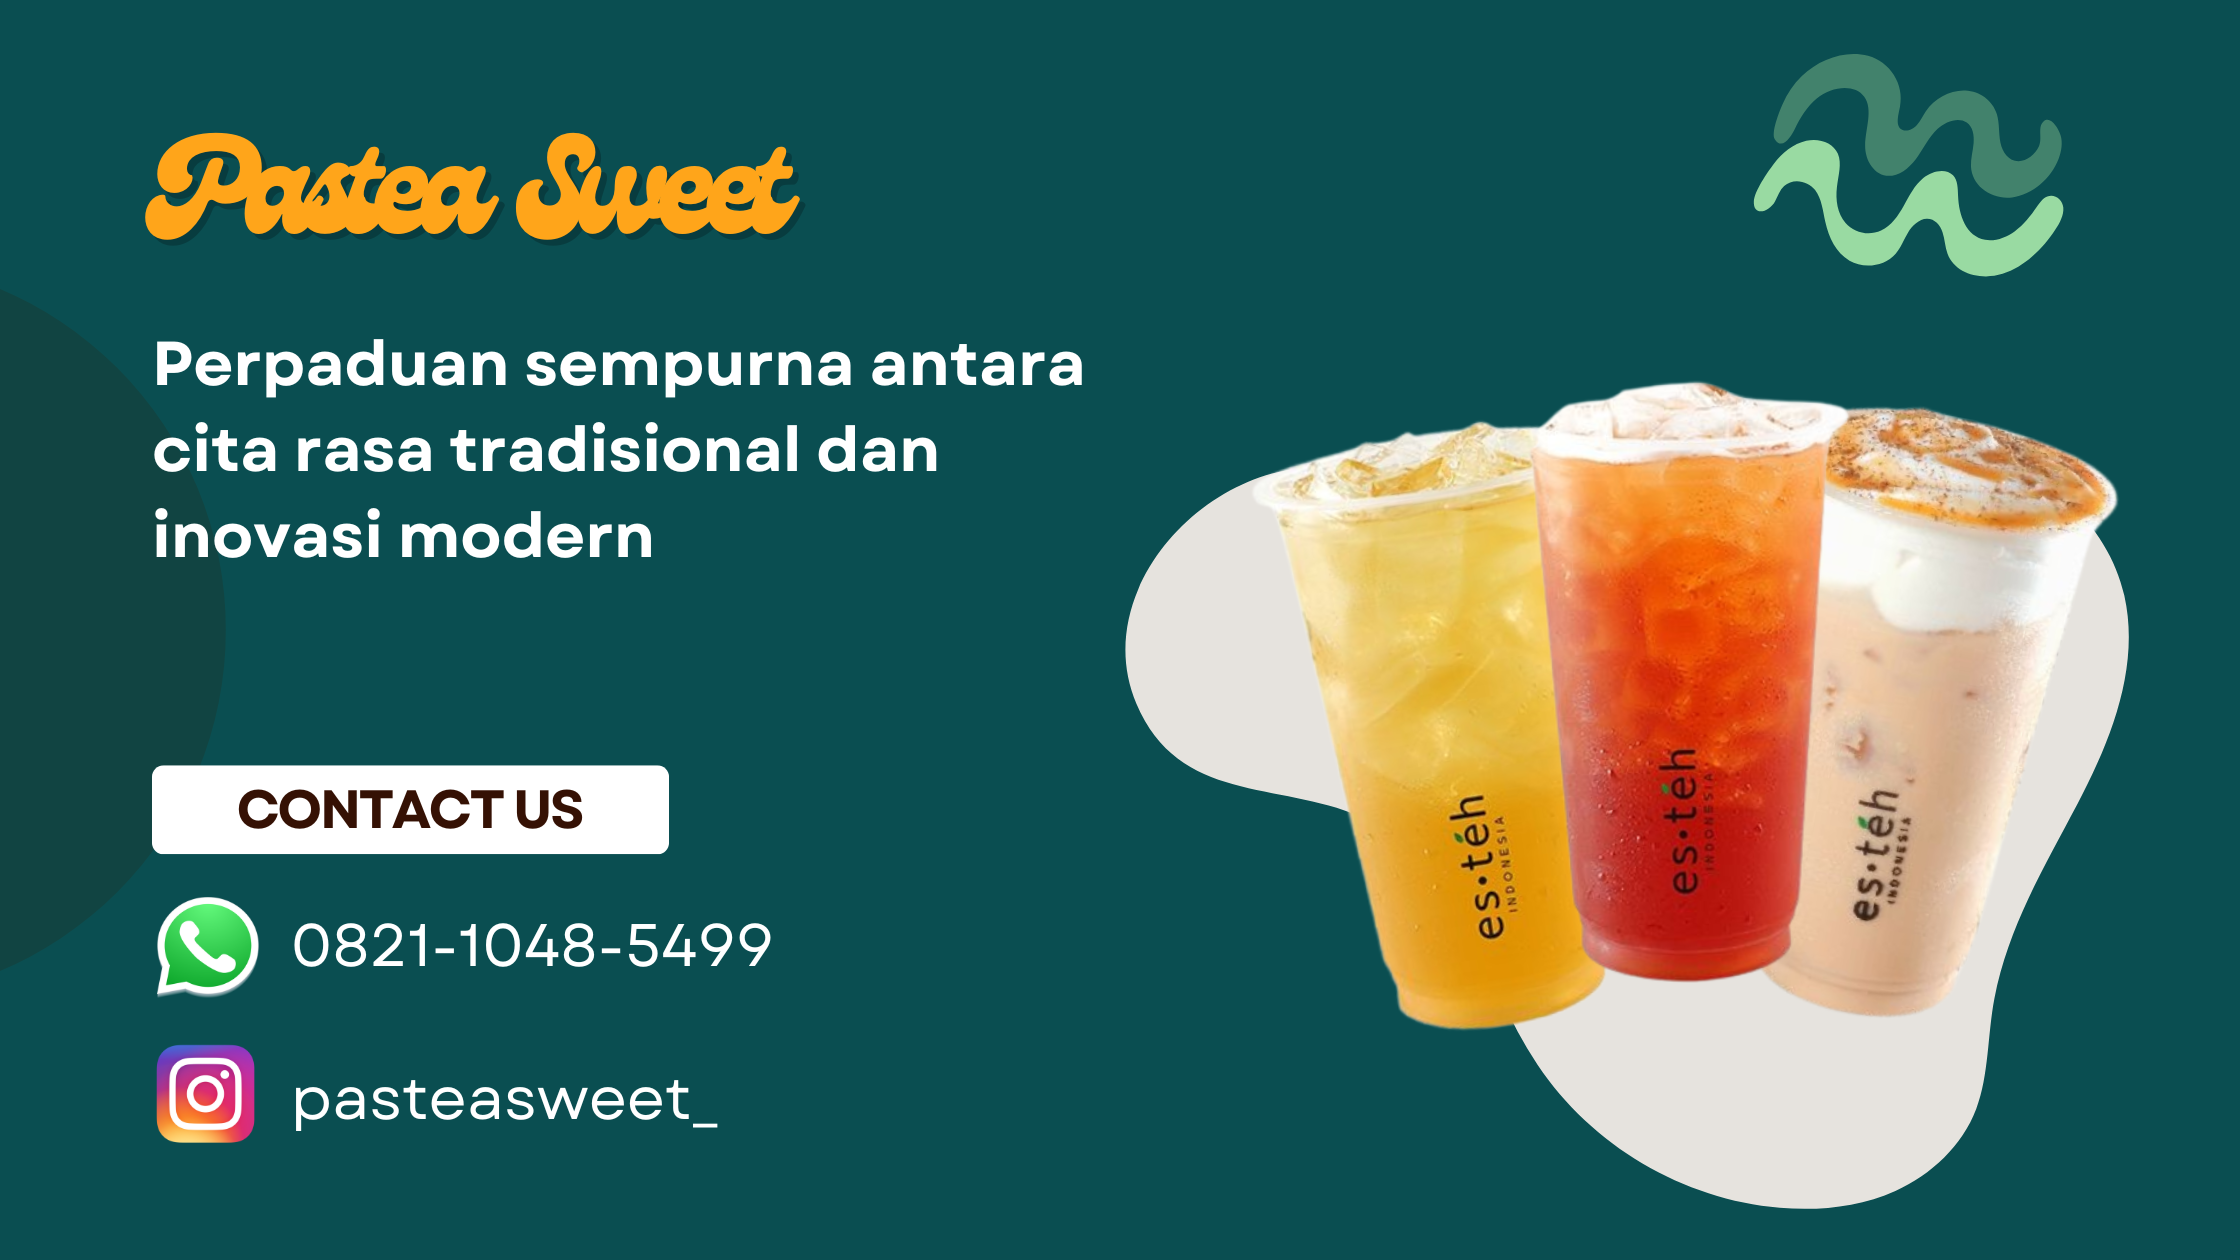
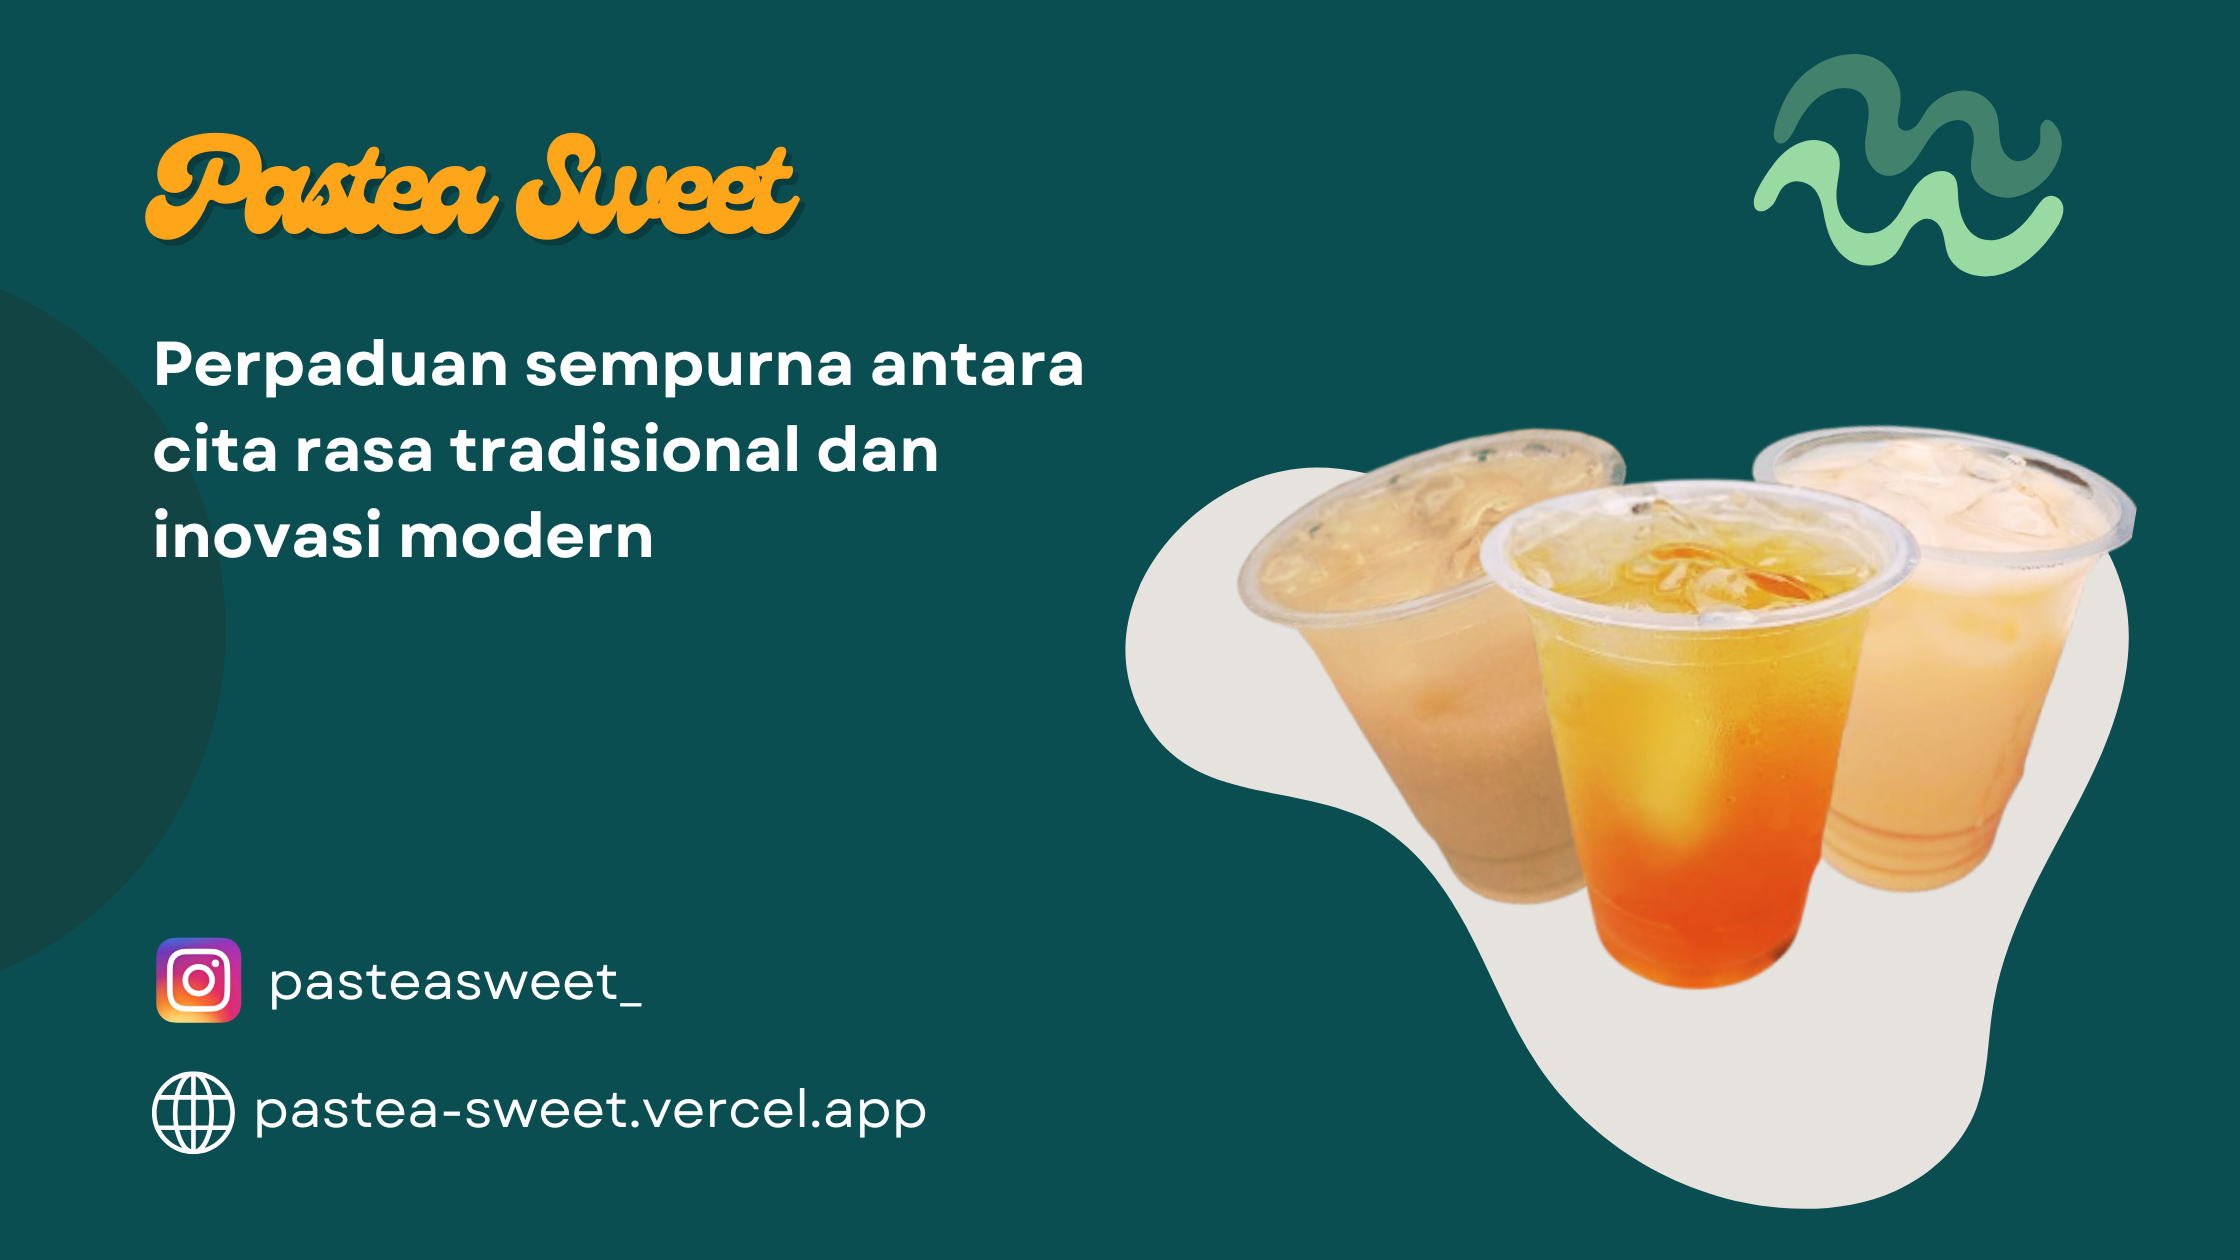
update

Changed region(s): [[0.5312, 0.2786, 0.9688, 0.8357], [0.0625, 0.7119, 0.4062, 0.9286], [0.0625, 0.5881, 0.3125, 0.681]]

diff --git a/index.html b/index.html
@@ -5,9 +5,13 @@
   <meta charset="UTF-8">
   <meta name="viewport" content="width=device-width, initial-scale=1.0">
   <title>Pastea Sweet</title>
+
   <script src="https://cdn.tailwindcss.com"></script>
   <style type="text/tailwindcss">
     @layer utilities {
+      html {
+        scroll-behavior: smooth; 
+      }
       .content-auto {
         content-visibility: auto;
       }
@@ -31,7 +35,7 @@
 </body>
 
 <!-- NAVBAR -->
-<nav class="bg-[#EEDCC4] w-full">
+<nav class="bg-[#EEDCC4] w-full sticky top-0 shadow z-10">
   <div class="container flex items-center justify-between p-4 mx-auto px-4 md:px-4 lg:px-[8rem]">
     <div class="nav-brand text-lg font-bold">
       <img src="logo/pasteasweet.png" alt="Logo Pasteasweet" class="w-20 h-auto">
@@ -43,19 +47,17 @@
     </div>
     <div class="nav-item hidden md:flex space-x-4 font-bold" id="navMenu">
       <a href="/" class="px-3 text-lg py-2 hover:text-orange-900">Home</a>
-      <a href="/daftar" class="px-3 text-lg py-2 hover:text-orange-900">About</a>
-      <a href="/" class="px-3 text-lg py-2 hover:text-orange-900">Menu</a>
-      <a href="/" class="px-3 text-lg py-2 hover:text-orange-900">Contact</a>
+      <a href="#about" class="px-3 text-lg py-2 hover:text-orange-900">About Us</a>
+      <a href="#menu" class="px-3 text-lg py-2 hover:text-orange-900">Menu</a>
     </div>
   </div>
 
   <!-- Mobile Menu -->
-  <div class="md:hidden hidden font-bold" id="navMenuMobile">
+  <div class="md:hidden hidden font-bold sticky top-0 shadow z-10 mx-auto text-center" id="navMenuMobile">
     <div class="flex flex-col space-y-2 p-4">
       <a href="/" class="block px-3 text-lg py-2 hover:text-orange-900">Home</a>
-      <a href="/daftar" class="block px-3 text-lg py-2 hover:text-orange-900">About</a>
-      <a href="/" class="block px-3 text-lg py-2 hover:text-orange-900">Menu</a>
-      <a href="/" class="block px-3 text-lg py-2 hover:text-orange-900">Contact</a>
+      <a href="#about" class="block px-3 text-lg py-2 hover:text-orange-900">About Us</a>
+      <a href="#menu" class="block px-3 text-lg py-2 hover:text-orange-900">Menu</a>
     </div>
   </div>
 </nav>
@@ -68,7 +70,7 @@
 <!-- HERO END -->
 
 <!-- ABOUT -->
-<div class="about">
+<div class="about" id="about">
   <div class="container mx-auto px-4 md:px-4 lg:px-[8rem] flex flex-col md:flex-row items-center p-10">
     <div class="md:w-2/3">
       <h2 class="text-3xl font-bold mb-4">About Us</h2>
@@ -76,28 +78,28 @@
         Selamat datang di Pastea Sweet!
         Di Pastea Sweet, kami percaya bahwa segelas es teh yang
         sempurna dapat mengubah setiap momen menjadi
-        pengalaman yang menyenangkan. Didirikan pada [Tahun],
+        pengalaman yang menyenangkan. Didirikan oleh 5 orang BSI Kaliabang,
         kecintaan kami terhadap teh dan komitmen terhadap
         kualitas telah mendorong kami untuk menciptakan berbagai
-        pilihan es teh yang unik, segar, dan lezat.
+        pilihan es teh yang unik, dan segar.
       </p>
     </div>
     <div class="md:w-1/3 flex justify-center md:justify-end mt-4 md:mt-0">
-      <img src="logo/pasteasweet.png" alt="Logo" class="w-[50%] h-auto">
+      <img src="logo/pasteasweet.png" alt="Logo" class="w-[50%] h-auto bg-cover">
     </div>
   </div>
 </div>
 <!-- ABOUT END -->
 
-<div class="product bg-[#0A4E51]">
+<div class="product bg-[#0A4E51]" id="menu">
   <div class="container mx-auto px-4 md:px-4 lg:px-[8rem] items-center p-10">
     <h2 class="text-3xl font-bold mb-4 text-center text-white">Variant Product</h2>
     <div
       class="grid grid-cols-1 md:grid-cols-3 lg:grid-cols-3 gap-8 place place-items-start md:place-items-center lg:place-items-center mt-[60px]">
       <div class="flex items-center gap-3">
-        <div class="justify-center w-20 h-20 rounded-full bg-[#EEDCC4] overflow-hidden">
-          <div class="absolute w-20 h-20 -rotate-12">
-            <img src="product/1.png" alt="Milk Tea" class="w-full h-full object-cover -translate-y-5">
+        <div class="justify-center w-20 h-20 rounded-full bg-[url('bg3.jpg')] bg-cover   overflow-hidden">
+          <div class="absolute w-24 h-26 -rotate-12">
+            <img src="product/thai_tea.png" alt="Milk Tea" class="w-full h-full object-cover -translate-y-14">
           </div>
         </div>
         <div class="desc">
@@ -106,9 +108,9 @@
         </div>
       </div>
       <div class="flex items-center gap-3">
-        <div class="justify-center w-20 h-20 rounded-full bg-[#EEDCC4] overflow-hidden">
-          <div class="absolute w-20 h-20 -rotate-12">
-            <img src="product/1.png" alt="Milk Tea" class="w-full h-full object-cover -translate-y-5">
+        <div class="justify-center w-20 h-20 rounded-full bg-[url('bg3.jpg')] bg-cover overflow-hidden">
+          <div class="absolute w-24 h-26 -rotate-12">
+            <img src="product/lecy_tea.png" alt="Milk Tea" class="w-full h-full object-cover -translate-y-14">
           </div>
         </div>
         <div class="desc">
@@ -117,9 +119,9 @@
         </div>
       </div>
       <div class="flex items-center gap-3">
-        <div class="justify-center w-20 h-20 rounded-full bg-[#EEDCC4] overflow-hidden">
-          <div class="absolute w-20 h-20 -rotate-12">
-            <img src="product/1.png" alt="Milk Tea" class="w-full h-full object-cover -translate-y-5">
+        <div class="justify-center w-20 h-20 rounded-full bg-[url('bg3.jpg')] bg-cover   overflow-hidden">
+          <div class="absolute w-24 h-26 -rotate-12">
+            <img src="product/manggo_tea.png" alt="Milk Tea" class="w-full h-full object-cover -translate-y-14">
           </div>
         </div>
         <div class="desc">
@@ -127,14 +129,63 @@
           <span class="font-bold text-xl text-[#FFA51A]">Rp 8.000</span>
         </div>
       </div>
-
     </div>
-
-
-
-
   </div>
 </div>
+
+<footer class="bg-[#EEDCC4] py-5">
+  <div class="container  px-4 md:px-4 lg:px-[8rem] max-w-6xl grid grid-cols-1 lg:grid-cols-2 md:grid-cols-2 gap-6">
+    <div class="brand-container">
+      <div class="brand">
+        <h1 class="text-xl font-bold">Pastea Sweet</h1>
+      </div>
+      <div class="deskripsi-brand mt-3 mb-5 lg:mb-0 md:mb-0">
+        <!-- <p class="text-sm text-[#ffffff] leading-loose mb-3"></p> -->
+
+        <div class="social-media flex gap-3">
+          <a href="https://www.instagram.com/pasteasweet_/" target="_blank">
+            <img src="ig_logo.png" alt="instagram-pastea-sweet" class="object-cover h-[30px]">
+          </a>
+        </div>
+      </div>
+    </div>
+
+    <div class="item-container grid grid-cols-2 md:grid-cols-2 lg:grid-cols-2 mr-auto md:mr-auto lg:ml-auto  gap-4">
+      <div class="peta-situs ">
+        <h3 class="text-md font-bold">Peta Situs</h3>
+        <ul class="text-sm mt-3">
+          <li class="mb-2 flex items-center">
+            <a href="/" class="text-sm leading-snug hover:opacity-75 flex items-center">
+              <p class="inline text-md font-semibold m-0">Beranda</p>
+            </a>
+          </li>
+          <li class="mb-2 flex items-center">
+            <a href="#about" class="text-sm leading-snug hover:opacity-75 flex items-center">
+              <p class="inline text-md font-semibold m-0">About Us</p>
+            </a>
+          </li>
+          <li class="flex items-center">
+            <a href="#menu" class="text-sm leading-snug hover:opacity-75 flex items-center">
+              <p class="inline text-md font-semibold m-0">Menu</p>
+            </a>
+          </li>
+        </ul>
+      </div>
+    </div>
+  </div>
+  <div class="lisensi text-center  mt-10">
+    <p>&copy; 2024 Pastea Sweet. All rights reserved.</p>
+  </div>
+</footer>
+
+<div class="grid place-content-end items-center">
+  <a href="https://wa.me/6282110485499?text=Hallo%2C%20saya%20ingin%order...  " target="_blank"
+    class="bg-[#FFA51A] rounded-t-[15px] px-5 lg:px-5 p-2 fixed bottom-0 right-0 text-xs md:text-sm lg:text-sm flex gap-2 items-center">
+    <img src="wa_logo.png" class="h-5" alt="">
+    <span class="hidden md:block lg:block font-semibold">Contact</span>
+  </a>
+</div>
+
 <script>
   function toggleMenu() {
     const navMenu = document.getElementById('navMenuMobile');
